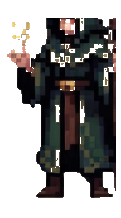
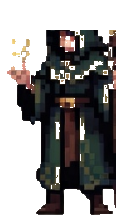
Fix wall phasing, direction flicker, mage sprites, level accessibility
- Player body: recalculate offset every frame (centered, bottom-aligned)
  instead of init-once. Fixes right-side wall phasing caused by
  asymmetric offset after display size changes.
- Direction flicker: threshold 60px, cooldown 800ms
- Mage pose1: re-extracted taller, normalized to 121x218
- Auto-obstacle tiles (pillars in wall grid): now also check 2-tile
  clearance from walls before spawning as physics objects
- Objects too close to walls become visual-only (no collider)

diff --git a/js/player.js b/js/player.js
@@ -542,34 +542,20 @@ function applyPlayerDisplaySettings(sprite) {
     const colliderReferenceWidth = Math.max(8, window.PLAYER_COLLIDER_WIDTH ?? PLAYER_COLLIDER_WIDTH);
     const colliderReferenceHeight = Math.max(8, window.PLAYER_COLLIDER_HEIGHT ?? PLAYER_COLLIDER_HEIGHT);
 
-    // Only set body size/offset once (on first call), then keep it stable.
-    // Re-calculating offset every frame based on changing displayWidth/Height
-    // causes the body to drift through colliders (especially when walking up).
-    if (!sprite._bodyInitialized) {
-      const headPad = window.PLAYER_COLLIDER_HEAD_CLEARANCE ?? PLAYER_COLLIDER_HEAD_CLEARANCE;
-      const footPad = window.PLAYER_COLLIDER_FOOT_OVERHANG ?? PLAYER_COLLIDER_FOOT_OVERHANG;
+    // Set fixed body size. Offset is recalculated each frame to stay
+    // centered on the sprite regardless of display size changes.
+    // Use fixed pixel values to avoid drift from changing scale.
+    sprite.body.setSize(colliderReferenceWidth / scaleX, colliderReferenceHeight / scaleY);
 
-      const actualWidth = sprite.displayWidth;
-      const actualHeight = sprite.displayHeight;
+    // Center body horizontally on sprite, align to bottom (feet)
+    const actualWidth = sprite.displayWidth;
+    const actualHeight = sprite.displayHeight;
+    const bodyPxW = colliderReferenceWidth;
+    const bodyPxH = colliderReferenceHeight;
+    const offsetX = Math.max(0, (actualWidth - bodyPxW) / 2);
+    const offsetY = Math.max(0, actualHeight * PLAYER_ORIGIN_Y - bodyPxH);
 
-      const desiredCenterX = actualWidth * appliedOriginX;
-      const desiredBottom = actualHeight * baselineOrigin + footPad;
-      const desiredTop = desiredBottom - colliderReferenceHeight - headPad;
-      const desiredLeft = desiredCenterX - colliderReferenceWidth / 2;
-
-      let offsetX = desiredLeft;
-      let offsetY = desiredTop;
-      if (offsetX < 0) offsetX = 0;
-      if (offsetY < 0) offsetY = 0;
-      const maxOffsetX = actualWidth - colliderReferenceWidth;
-      const maxOffsetY = actualHeight - colliderReferenceHeight;
-      if (offsetX > maxOffsetX) offsetX = maxOffsetX;
-      if (offsetY > maxOffsetY) offsetY = maxOffsetY;
-
-      sprite.body.setSize(colliderReferenceWidth / scaleX, colliderReferenceHeight / scaleY);
-      sprite.body.setOffset(offsetX / scaleX, offsetY / scaleY);
-      sprite._bodyInitialized = true;
-    }
+    sprite.body.setOffset(offsetX / scaleX, offsetY / scaleY);
 
     if (DEBUG_PLAYER_COLLIDER) {
       updatePlayerColliderDebug(sprite);

diff --git a/js/roomTemplates.js b/js/roomTemplates.js
@@ -314,7 +314,27 @@ function applyRoomTemplate(scene, tpl, originX = 0, originY = 0) {
             templateWalls.push(glowGfx);
           }
 
-          scene.spawnObstacle(obstacleX, obstacleY, key);
+          // Check clearance: only spawn as physics obstacle if 2+ tiles from any wall
+          let autoTooClose = false;
+          const isBraz = key === 'brazier' || key === 'brazer';
+          if (!isBraz) {
+            for (let cdy = -2; cdy <= 2 && !autoTooClose; cdy++) {
+              for (let cdx = -2; cdx <= 2 && !autoTooClose; cdx++) {
+                if (cdx === 0 && cdy === 0) continue;
+                const cx = x + cdx, cy = y + cdy;
+                if (cy >= 0 && cy < H && cx >= 0 && cx < W && wallsGrid[cy]?.[cx] === '#') autoTooClose = true;
+              }
+            }
+          }
+          if (!autoTooClose) {
+            scene.spawnObstacle(obstacleX, obstacleY, key);
+          } else {
+            // Visual only, no physics
+            if (scene.textures?.exists(key)) {
+              const vis = scene.add.image(obstacleX, obstacleY, key).setDepth(40).setAlpha(0.7);
+              templateWalls.push(vis);
+            }
+          }
         }
       }
       x++;

diff --git a/js/enemy.js b/js/enemy.js
@@ -647,8 +647,8 @@ function handleEnemies(time, delta = 16) {
     // - Only switch on significant horizontal movement (threshold to avoid flicker)
     // - Never switch during attack animation
     // - Cooldown of 200ms between direction changes
-    const DIR_THRESHOLD = 40; // minimum horizontal velocity to trigger direction change
-    const DIR_COOLDOWN = 500; // ms between direction changes
+    const DIR_THRESHOLD = 60; // minimum horizontal velocity to trigger direction change
+    const DIR_COOLDOWN = 800; // ms between direction changes
 
     if (enemy.isImp && !enemy.impAttacking) {
       if (Math.abs(desired.x) > DIR_THRESHOLD && (!enemy._lastDirChange || time - enemy._lastDirChange > DIR_COOLDOWN)) {
